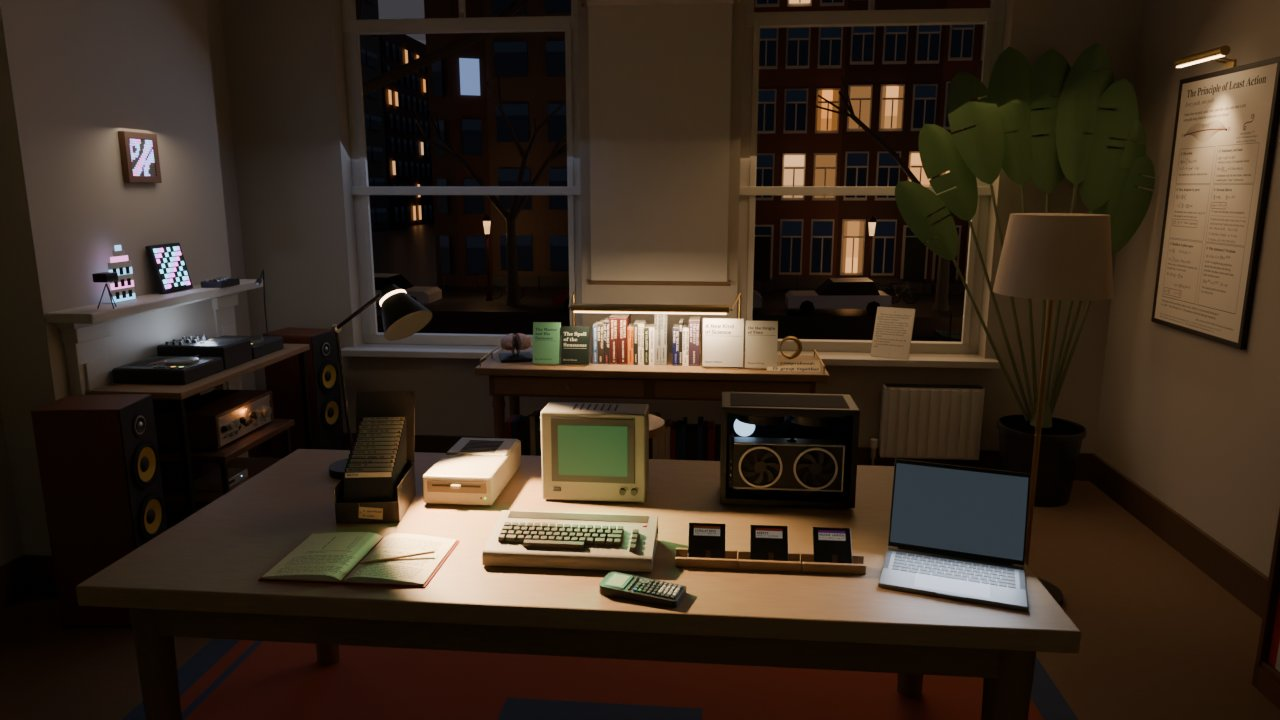
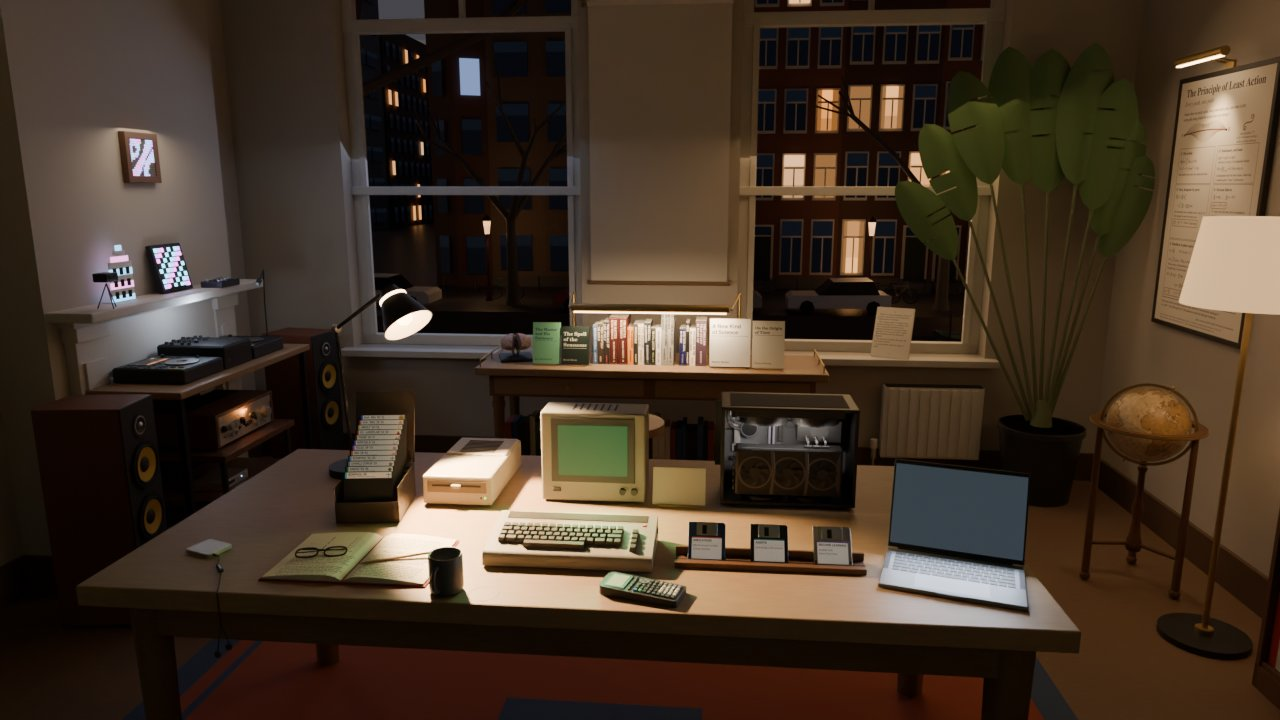
V34: room preview build, noindex

diff --git a/V34/colophon.html b/V34/colophon.html
@@ -149,7 +149,7 @@
   <h1>A room built by agents, <em>held to measurements</em></h1>
   <p class="lede">The room on the front page is the front room of a canal house at night, with a desk, a cabinet and the instruments of a physicist who became an AI engineer. Nobody modelled it by hand. Claude agents wrote the Python that builds every object in Blender, Blender bakes the light, and three.js draws the result in your browser, on a phone as well as on a desktop.</p>
   <p>Ruud Hendrikx sets the direction, makes the calls and judges the result. The practice: automated gates and an outside review panel on everything, and his own read of the code where it is new in kind or touches security and privacy. This page is the method section: what was built, under which constraints, how it was checked, and what did not work.</p>
-  <p class="abstract"><b>In short.</b> <span data-k="commits">501</span> commits over <span data-k="days">43</span> days, in <span data-k="rounds">35</span> numbered rounds. The room downloads in <span data-fig="mb">7.0</span> MB of an 8 MB budget; its model draws in <span data-fig="draws">52</span> calls of 60 and holds <span data-fig="tris">111,223</span> triangles of 150,000. A gate script of <span data-k="gates">31</span> gates decides when a change is done; a review panel whose members never built what they judge decides what to change next.</p>
+  <p class="abstract"><b>In short.</b> <span data-k="commits">502</span> commits over <span data-k="days">43</span> days, in <span data-k="rounds">35</span> numbered rounds. The room downloads in <span data-fig="mb">7.0</span> MB of an 8 MB budget; its model draws in <span data-fig="draws">52</span> calls of 60 and holds <span data-fig="tris">111,223</span> triangles of 150,000. A gate script of <span data-k="gates">32</span> gates decides when a change is done; a review panel whose members never built what they judge decides what to change next.</p>
 </div>
 <section class="col" aria-labelledby="h-built">
   <h2 id="h-built"><span class="n">01</span>What was built, under which constraints</h2>
@@ -183,7 +183,7 @@
     <li><strong>Ruud decides what is right.</strong> Direction, taste and every call that cannot be undone are his. When the panel and his taste disagree, his taste wins: he picks the direction, the panel ranks the execution.</li>
   </ol>
   <h3 id="h-gates">What a gate proves</h3>
-  <p>The gate script runs <span data-k="gates">31</span> gates with <span data-k="checks">206</span> checks written into <span data-k="gates_lines">4,543</span> lines of Python. It drives a real Chrome through Playwright, on a desktop window and an emulated iPhone, and reads the page the way a visitor meets it. A selection:</p>
+  <p>The gate script runs <span data-k="gates">32</span> gates with <span data-k="checks">208</span> checks written into <span data-k="gates_lines">4,565</span> lines of Python. It drives a real Chrome through Playwright, on a desktop window and an emulated iPhone, and reads the page the way a visitor meets it. A selection:</p>
   <div class="tablewrap">
   <table class="stack">
     <thead><tr><th scope="col">Kind</th><th scope="col">The gate proves</th><th scope="col">It passes when</th></tr></thead>
@@ -213,14 +213,14 @@
 <section class="col" aria-labelledby="h-numbers">
   <h2 id="h-numbers"><span class="n">03</span>The numbers</h2>
   <dl class="numbers">
-    <div><dt>commits on the room</dt><dd data-k="commits">501</dd></div>
+    <div><dt>commits on the room</dt><dd data-k="commits">502</dd></div>
     <div><dt>days from the first commit, <span data-k="active_days">23</span> of them with commits</dt><dd data-k="days">43</dd></div>
     <div><dt>numbered rounds</dt><dd data-k="rounds">35</dd></div>
     <div><dt>object modules in Python</dt><dd data-k="objects">90</dd></div>
-    <div><dt>lines of Python · JavaScript</dt><dd><span data-k="py_lines">23,347</span> <small>· <span data-k="js_lines">10,907</span></small></dd></div>
-    <div><dt>gates in use · checks written</dt><dd><span data-k="gates">31</span> <small>· <span data-k="checks">206</span></small></dd></div>
+    <div><dt>lines of Python · JavaScript</dt><dd><span data-k="py_lines">23,369</span> <small>· <span data-k="js_lines">10,911</span></small></dd></div>
+    <div><dt>gates in use · checks written</dt><dd><span data-k="gates">32</span> <small>· <span data-k="checks">208</span></small></dd></div>
   </dl>
-  <p class="asof"><span data-k="asof">Figures read from the repository at commit 947334d, 26 November 2026.</span> Not every object module is in this room: earlier rounds built instruments that later left it. The room’s own budgets are in the first table.</p>
+  <p class="asof"><span data-k="asof">Figures read from the repository at commit 08a119c, 26 November 2026.</span> Not every object module is in this room: earlier rounds built instruments that later left it. The room’s own budgets are in the first table.</p>
 </section>
 <section class="col" aria-labelledby="h-decisions">
   <h2 id="h-decisions"><span class="n">04</span>Decisions that mattered</h2>

diff --git a/V34/layer-deck.js b/V34/layer-deck.js
@@ -432,9 +432,11 @@ export default function mount(live) {
   }
   const running = () => eng && live_on && ctx.state === 'running';
   const rec = [0, 1].map(() => ({ state: 'none', bytes: null, ms: 0, lead: 0, timer: 0 }));
+  const SYNTH_ONLY = matchMedia('(pointer: coarse)').matches && !new URLSearchParams(location.search).has('records');
   function load(i) {
     const r = rec[i];
     if (r.state !== 'none' || !eng) return;
+    if (SYNTH_ONLY) { r.state = 'synth'; return; }
     r.state = 'loading'; const t0 = performance.now();
     (r.bytes ? Promise.resolve(r.bytes) : fetch(recUrl(i)).then((res) => { if (!res.ok) throw new Error(res.status); return res.arrayBuffer(); }))
       .then((b) => { r.bytes = b; return ctx.decodeAudioData(b.slice(0)); })

diff --git a/V34/main.js b/V34/main.js
@@ -40,6 +40,7 @@ const OWN_ACTS = {
     { label: 'See it on the facades opposite', run: (L) => L.stage?.cue?.({ beat: METAL_CUE_BEAT, university: true }), go: 'university' },
     { label: 'Play with the panel', run: (L) => L.ledmatrix?.open(), need: 'pr_ledmatrix' }],
   inference: [{ label: 'Replay the measured run', run: (L) => L.gpu?.play() }],
+  atlas: [{ label: 'Read the Atlas', href: '/atlas/' }],
 };
 const ATLAS_FIG = [['46', 'agents', '46 agents'], ['28', 'minutes', '28 minutes'], ['157', 'cards', '157 cards'], ['651', 'claims', '651 claims'],
   ['8', 'of 2,144 citations unresolved', '2,144 citations, 8 are unresolved']];
